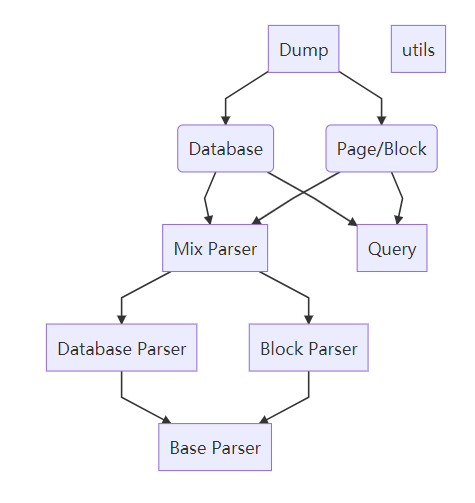
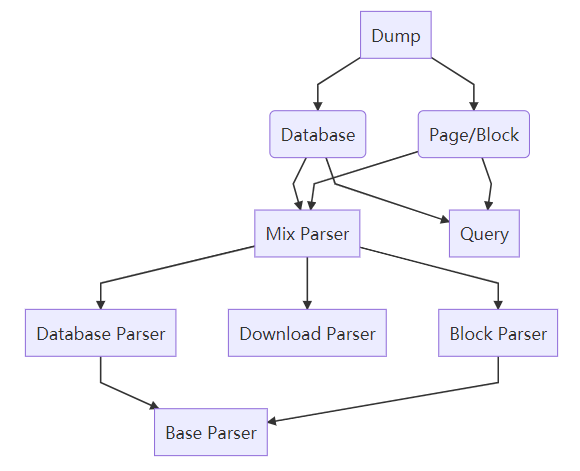
更新README和架构图

diff --git a/README.md b/README.md
@@ -14,7 +14,7 @@
 - [x] 将Notion Page页面或者一个单独的Block导出为md文件
 - [x] 递归导出page中的指向page或者数据库（Table）中的子页面
 - [x] 递归导出数据库中Title对应的Page页面，及其递归（和上一条结合起来简而言之对于Page和Database Table之间的相互嵌套均可以递归导出）
-- [ ] 将文件和图片下载
+- [x] 将文件和图片下载
 - [ ] 将Notion Page页面导出到数据库（SQL）
 - [ ] 将数据库（SQL）导出成md&CSV文件
 
@@ -39,15 +39,14 @@ graph TD
     C --> D[Mix Parser]
 
     D --> E[Database Parser]
+    D --> I[Download Parser]
     D --> F[Block Parser]
-
+    
     E --> G[Base Parser]
     F --> G[Base Parser]
 
     B --> H[Query]
     C --> H[Query]
-    
-    J[utils]
 ```
 
 

diff --git a/README_En.md b/README_En.md
@@ -10,7 +10,7 @@ Main targets
 - [x] Export Notion Page or Block as md file
 - [x] Recursion Export child Page or Database(Table)  in Page
 - [x] Recursion Export child Page in Database(Table) （All in all，all can Recursion Export）
-- [ ] Export Img and Files
+- [x] Export Img and Files
 - [ ] Export Notion Page as SQL
 - [ ] Export  SQL as md&CSV file
 
@@ -35,15 +35,14 @@ graph TD
     C --> D[Mix Parser]
 
     D --> E[Database Parser]
+    D --> I[Download Parser]
     D --> F[Block Parser]
-
+    
     E --> G[Base Parser]
     F --> G[Base Parser]
 
     B --> H[Query]
     C --> H[Query]
-    
-    J[utils]
 ```
 
 ![项目架构图](https://github.com/delta1037/notion-dump-kernel/blob/main/img/structure.png)
